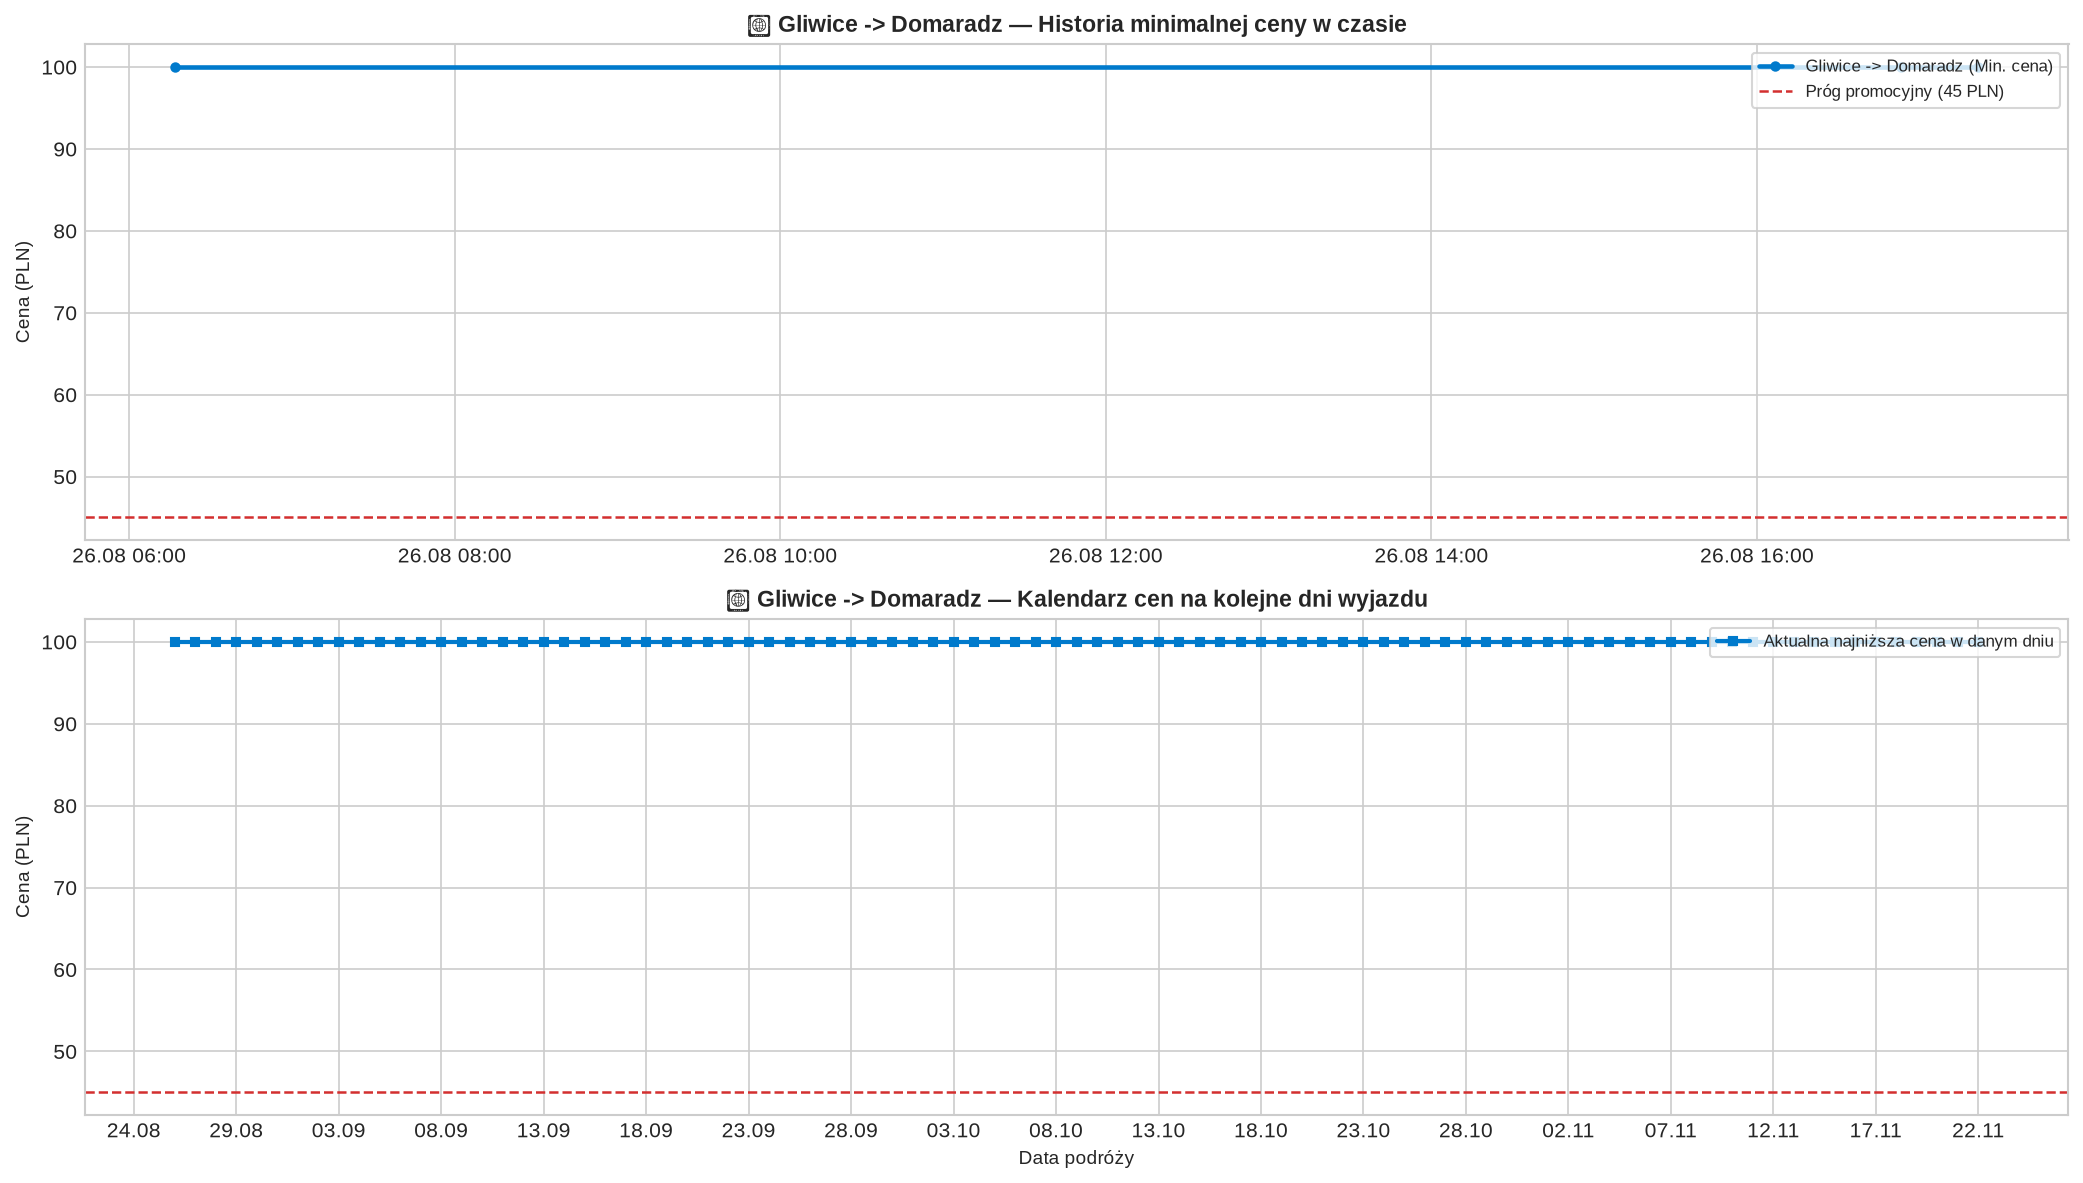
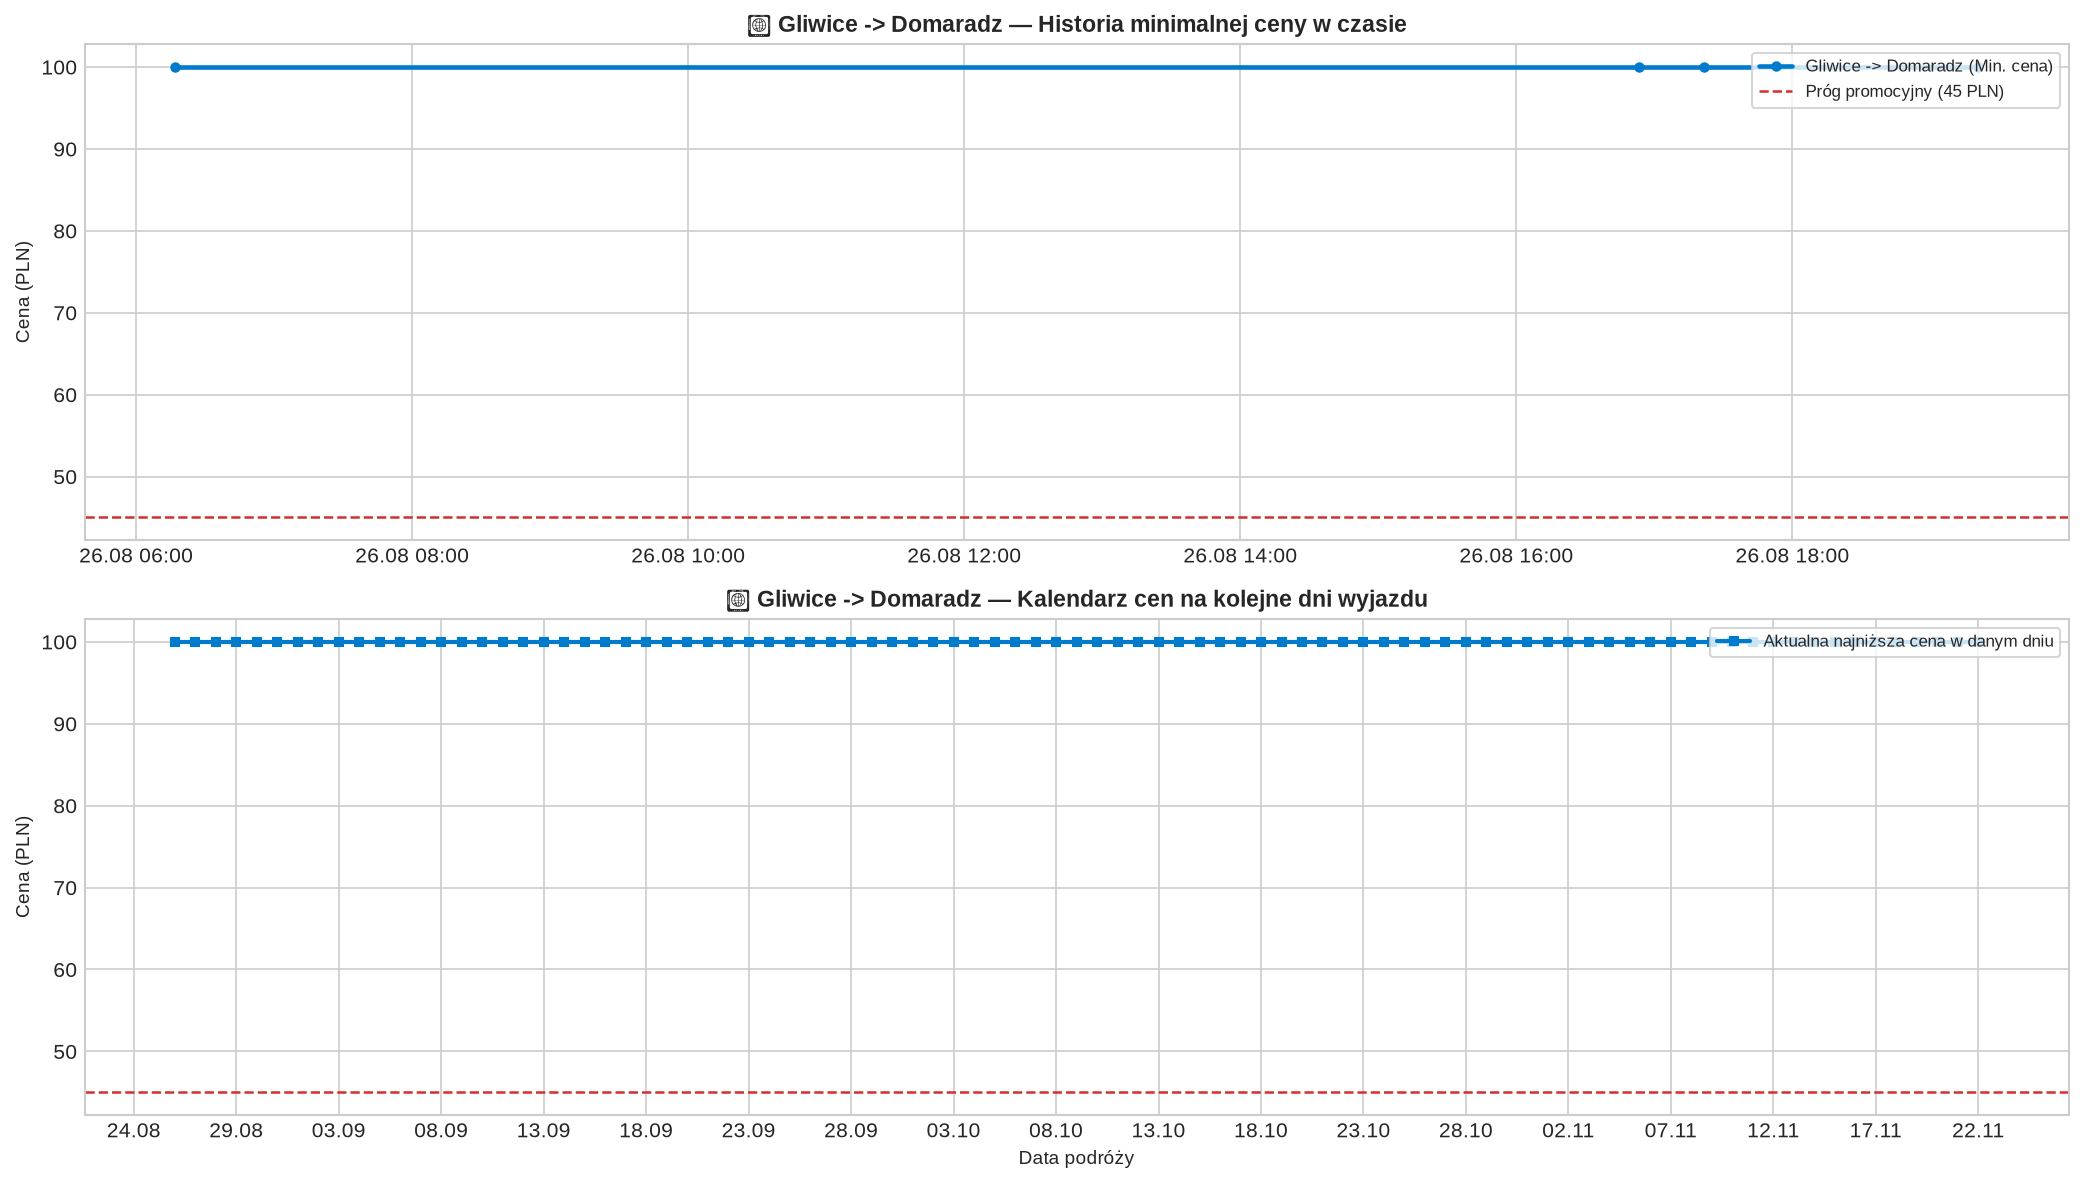
Aktualizacja cen, miejsc i wykresów [skip ci]

diff --git a/README.md b/README.md
@@ -1,8 +1,11 @@
-# 🚌 Neobus Sentinel & Fare Hunter
-> **Ostatnia aktualizacja:** `26.08.2026 17:21:34`  
-> 🟢 **Dużo miejsc (26-50)** | 🟡 **Średnie obłożenie (6-25)** | 🔴 **Ostatnie miejsca (1-5)**
-## 📍 Trasa: Gliwice ➔ Domaradz (Wyjazdy)
-| Data | Godzina odjazdu | Wolne miejsca | Cena | Link |
+# 🚌 Neobus Sentinel & Obserwatorium Podróży
+
+> 🕒 **Ostatnia aktualizacja:** `26.08.2026 19:20:47`  
+> 🟢 **Dużo miejsc (26–50)** | 🟡 **Średnie obłożenie (6–25)** | 🔴 **Ostatnie miejsca (1–5)**
+
+## 📍 Twoje obserwowane wyjazdy (Gliwice ➔ Domaradz)
+
+| Data | Godzina odjazdu | Wolne miejsca | Cena | Zakup |
 | :--- | :--- | :--- | :--- | :---: |
 | 📅 **11.09.2026** | ⏰ 00:20 -> 05:24 | 🟢 `[████████░░] 41/50` | 100.00 PLN | [Kup bilet](https://neobus.pl/) |
 | 📅 **11.09.2026** | ⏰ 09:45 -> 14:56 | 🟢 `[██████████] 49/50` | 100.00 PLN | [Kup bilet](https://neobus.pl/) |
@@ -57,15 +60,16 @@
 | 📅 **20.11.2026** | ⏰ 14:00 -> 19:26 | 🟢 `[██████████] 50/50` | 100.00 PLN | [Kup bilet](https://neobus.pl/) |
 | 📅 **20.11.2026** | ⏰ 17:40 -> 22:48 | 🟢 `[██████████] 50/50` | 100.00 PLN | [Kup bilet](https://neobus.pl/) |
 
-## 📍 Trasa: Domaradz ➔ Gliwice (Powroty)
-| Data | Godzina odjazdu | Wolne miejsca | Cena | Link |
+## 📍 Twoje obserwowane powroty (Domaradz ➔ Gliwice)
+
+| Data | Godzina odjazdu | Wolne miejsca | Cena | Zakup |
 | :--- | :--- | :--- | :--- | :---: |
 | 📅 **13.09.2026** | ⏰ 00:38 -> 05:22 | 🟢 `[█████████░] 45/50` | 95.00 PLN | [Kup bilet](https://neobus.pl/) |
 | 📅 **13.09.2026** | ⏰ 03:48 -> 09:00 | 🟢 `[█████████░] 46/50` | 95.00 PLN | [Kup bilet](https://neobus.pl/) |
 | 📅 **13.09.2026** | ⏰ 07:21 -> 13:00 | 🟢 `[██████████] 49/50` | 95.00 PLN | [Kup bilet](https://neobus.pl/) |
 | 📅 **13.09.2026** | ⏰ 11:08 -> 16:55 | 🟢 `[██████████] 49/50` | 95.00 PLN | [Kup bilet](https://neobus.pl/) |
 | 📅 **13.09.2026** | ⏰ 17:18 -> 22:27 | 🟢 `[██████████] 50/50` | 95.00 PLN | [Kup bilet](https://neobus.pl/) |
-| 📅 **20.09.2026** | ⏰ 00:38 -> 05:22 | 🟢 `[█████████░] 46/50` | 95.00 PLN | [Kup bilet](https://neobus.pl/) |
+| 📅 **20.09.2026** | ⏰ 00:38 -> 05:22 | 🟢 `[█████████░] 45/50` | 95.00 PLN | [Kup bilet](https://neobus.pl/) |
 | 📅 **20.09.2026** | ⏰ 03:48 -> 09:00 | 🟢 `[██████████] 50/50` | 95.00 PLN | [Kup bilet](https://neobus.pl/) |
 | 📅 **20.09.2026** | ⏰ 07:21 -> 13:00 | 🟢 `[██████████] 50/50` | 95.00 PLN | [Kup bilet](https://neobus.pl/) |
 | 📅 **20.09.2026** | ⏰ 11:08 -> 16:55 | 🟢 `[██████████] 50/50` | 95.00 PLN | [Kup bilet](https://neobus.pl/) |
@@ -114,3 +118,39 @@
 | 📅 **22.11.2026** | ⏰ 07:21 -> 13:00 | 🟢 `[██████████] 50/50` | 95.00 PLN | [Kup bilet](https://neobus.pl/) |
 | 📅 **22.11.2026** | ⏰ 11:08 -> 16:55 | 🟢 `[██████████] 50/50` | 95.00 PLN | [Kup bilet](https://neobus.pl/) |
 | 📅 **22.11.2026** | ⏰ 17:18 -> 22:27 | 🟢 `[██████████] 50/50` | 95.00 PLN | [Kup bilet](https://neobus.pl/) |
+
+---
+
+## ⚡ Ostatnie zarejestrowane zmiany cen i stanu miejsc
+
+> *Wiersze poniżej reprezentują faktycznie odnotowane zmiany w bazie Neobusa.*
+
+| Czas sprawdzenia | Trasa | Kurs | Cena | Zarejestrowane miejsca |
+| :--- | :--- | :--- | :--- | :---: |
+| `2026-08-26 19:20:47` | Gliwice ➔ Domaradz | 📅 24.10.2026 (00:20 -> 05:24) | **100.00 PLN** | 🟢 **49 szt.** |
+| `2026-08-26 19:20:47` | Gliwice ➔ Domaradz | 📅 18.09.2026 (00:20 -> 05:24) | **100.00 PLN** | 🟢 **48 szt.** |
+| `2026-08-26 19:20:47` | Gliwice ➔ Domaradz | 📅 12.09.2026 (17:40 -> 22:48) | **100.00 PLN** | 🟢 **47 szt.** |
+| `2026-08-26 19:20:47` | Gliwice ➔ Domaradz | 📅 12.09.2026 (14:00 -> 19:26) | **100.00 PLN** | 🟢 **46 szt.** |
+| `2026-08-26 19:20:47` | Gliwice ➔ Domaradz | 📅 07.09.2026 (00:20 -> 05:24) | **100.00 PLN** | 🟢 **32 szt.** |
+| `2026-08-26 19:20:47` | Gliwice ➔ Domaradz | 📅 04.09.2026 (09:45 -> 14:56) | **100.00 PLN** | 🟢 **46 szt.** |
+| `2026-08-26 19:20:47` | Domaradz ➔ Gliwice | 📅 07.11.2026 (11:08 -> 16:55) | **95.00 PLN** | 🟢 **49 szt.** |
+| `2026-08-26 19:20:47` | Domaradz ➔ Gliwice | 📅 23.09.2026 (11:08 -> 16:55) | **95.00 PLN** | 🟢 **46 szt.** |
+| `2026-08-26 19:20:47` | Domaradz ➔ Gliwice | 📅 20.09.2026 (00:38 -> 05:22) | **95.00 PLN** | 🟢 **45 szt.** |
+| `2026-08-26 19:20:47` | Domaradz ➔ Gliwice | 📅 17.09.2026 (00:38 -> 05:22) | **95.00 PLN** | 🟢 **45 szt.** |
+
+---
+
+## 🚨 Radar Obłożenia: Najbardziej oblegane kursy w całym kalendarzu (TOP 10)
+
+| Trasa | Data i godzina | Wolne miejsca | Obłożenie | Cena |
+| :--- | :--- | :--- | :--- | :---: |
+| Domaradz -> Gliwice | 📅 **29.08.2026** (00:38 -> 05:22) | 🟡 `[████░░░░░░] 19/50` | **62% zajęte** | 95.00 PLN |
+| Domaradz -> Gliwice | 📅 **28.08.2026** (00:38 -> 05:22) | 🟡 `[████░░░░░░] 21/50` | **57% zajęte** | 95.00 PLN |
+| Domaradz -> Gliwice | 📅 **01.09.2026** (11:08 -> 16:55) | 🟡 `[████░░░░░░] 22/50` | **56% zajęte** | 95.00 PLN |
+| Domaradz -> Gliwice | 📅 **01.09.2026** (00:38 -> 05:22) | 🟡 `[█████░░░░░] 23/50` | **54% zajęte** | 95.00 PLN |
+| Gliwice -> Domaradz | 📅 **16.09.2026** (00:20 -> 05:24) | 🟡 `[█████░░░░░] 25/50` | **50% zajęte** | 100.00 PLN |
+| Gliwice -> Domaradz | 📅 **05.09.2026** (00:20 -> 05:24) | 🟢 `[█████░░░░░] 26/50` | **48% zajęte** | 100.00 PLN |
+| Domaradz -> Gliwice | 📅 **02.09.2026** (00:38 -> 05:22) | 🟢 `[█████░░░░░] 26/50` | **48% zajęte** | 95.00 PLN |
+| Gliwice -> Domaradz | 📅 **27.08.2026** (00:20 -> 05:24) | 🟢 `[█████░░░░░] 27/50` | **46% zajęte** | 100.00 PLN |
+| Domaradz -> Gliwice | 📅 **04.09.2026** (11:08 -> 16:55) | 🟢 `[██████░░░░] 28/50` | **44% zajęte** | 95.00 PLN |
+| Domaradz -> Gliwice | 📅 **27.08.2026** (07:21 -> 13:00) | 🟢 `[██████░░░░] 29/50` | **42% zajęte** | 95.00 PLN |
